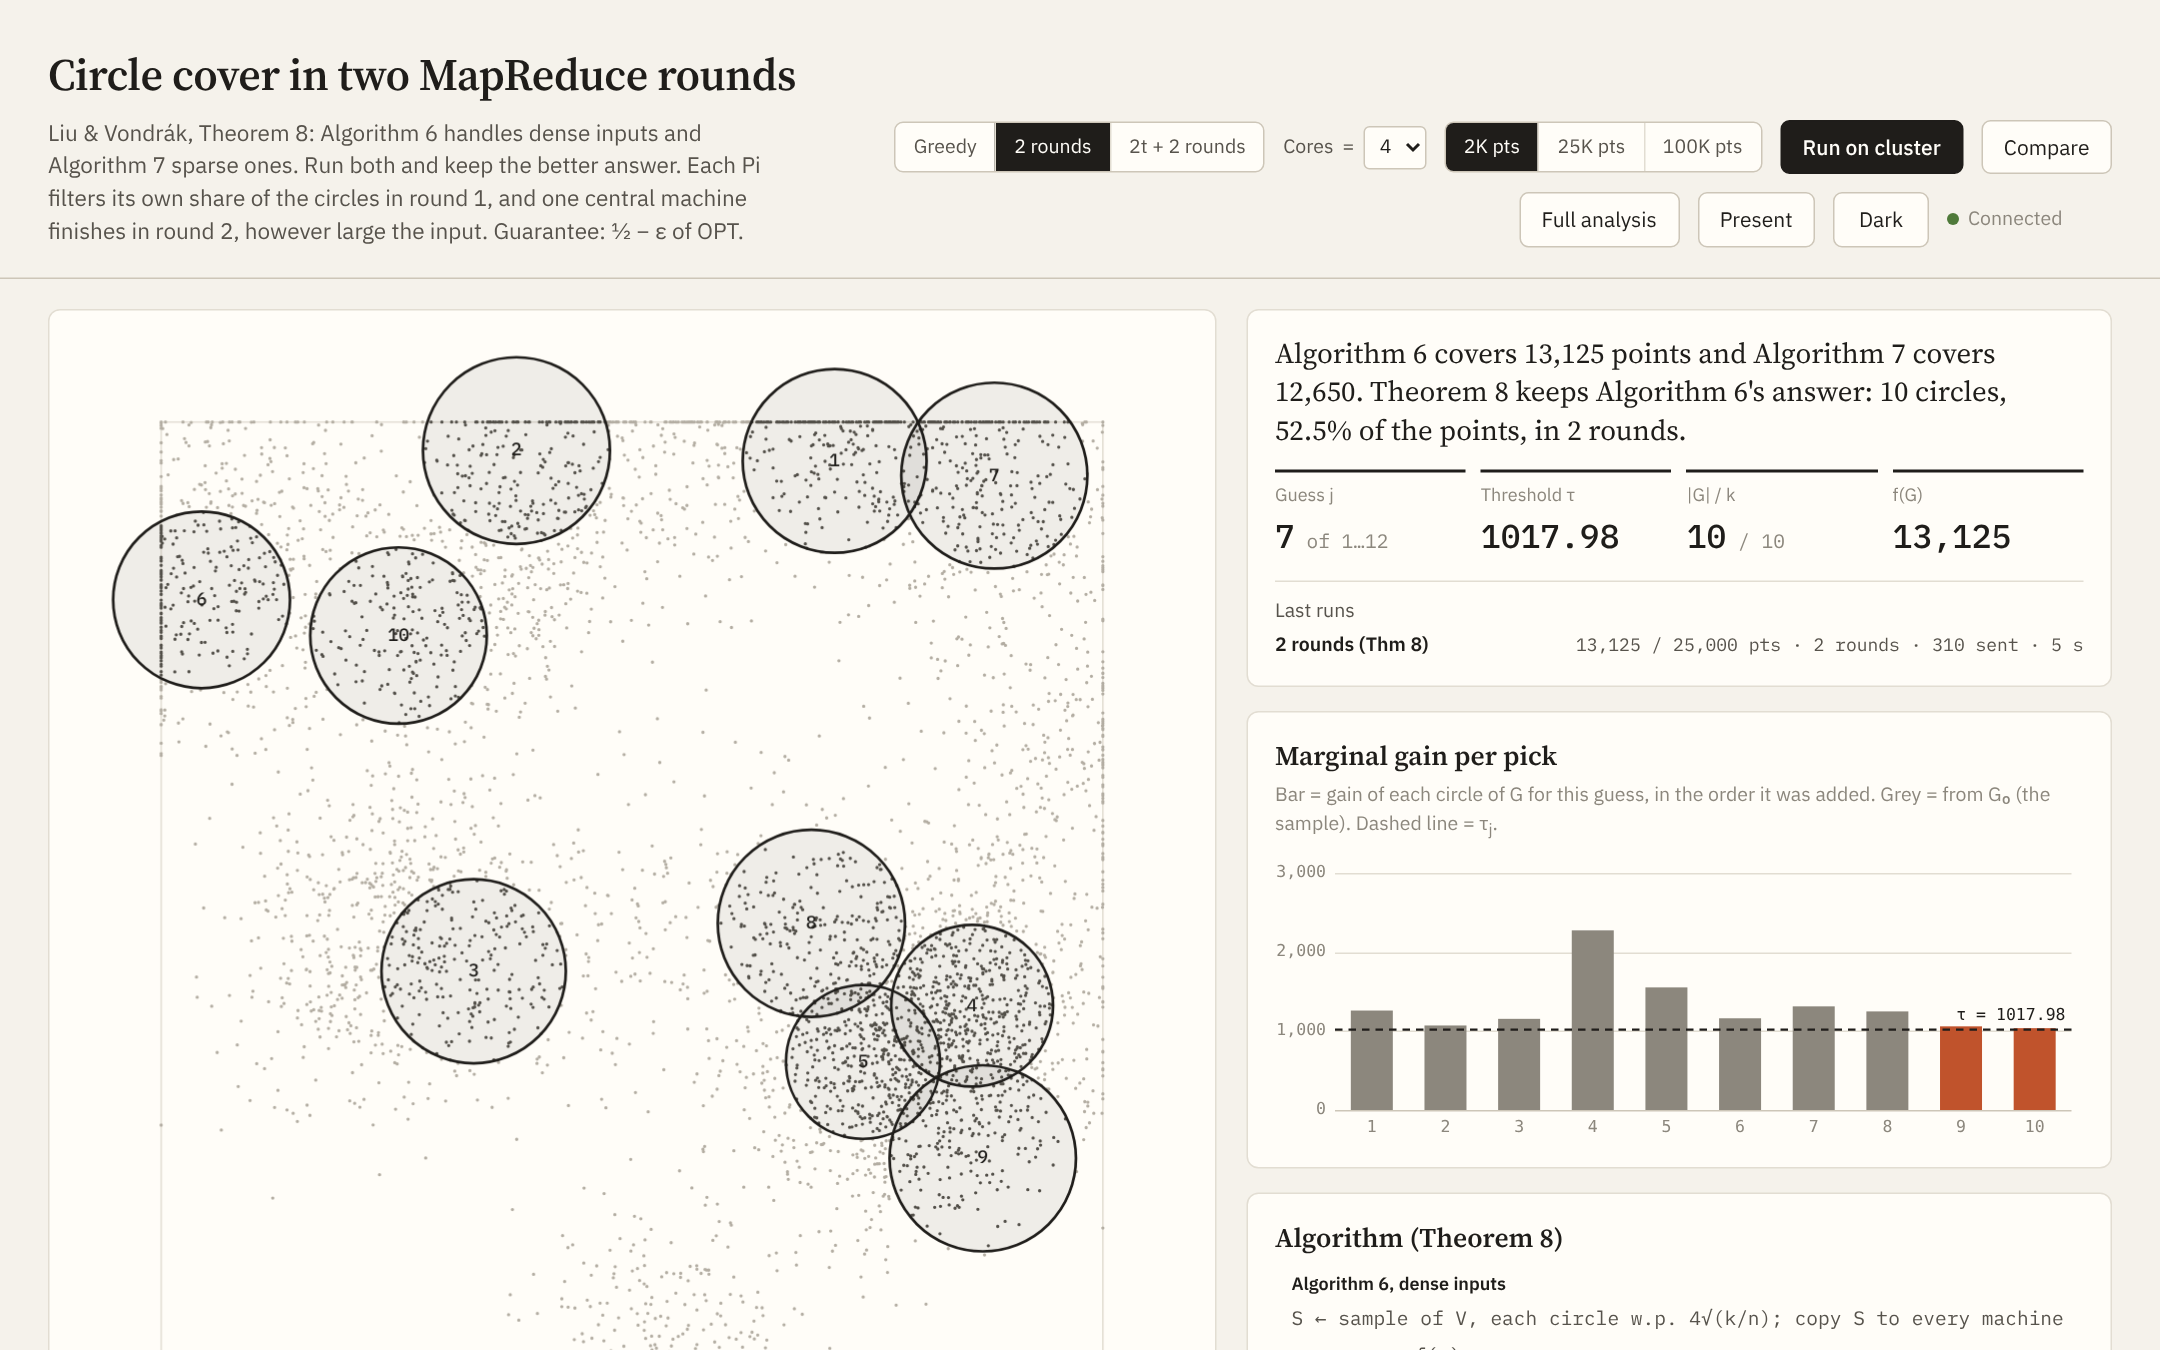
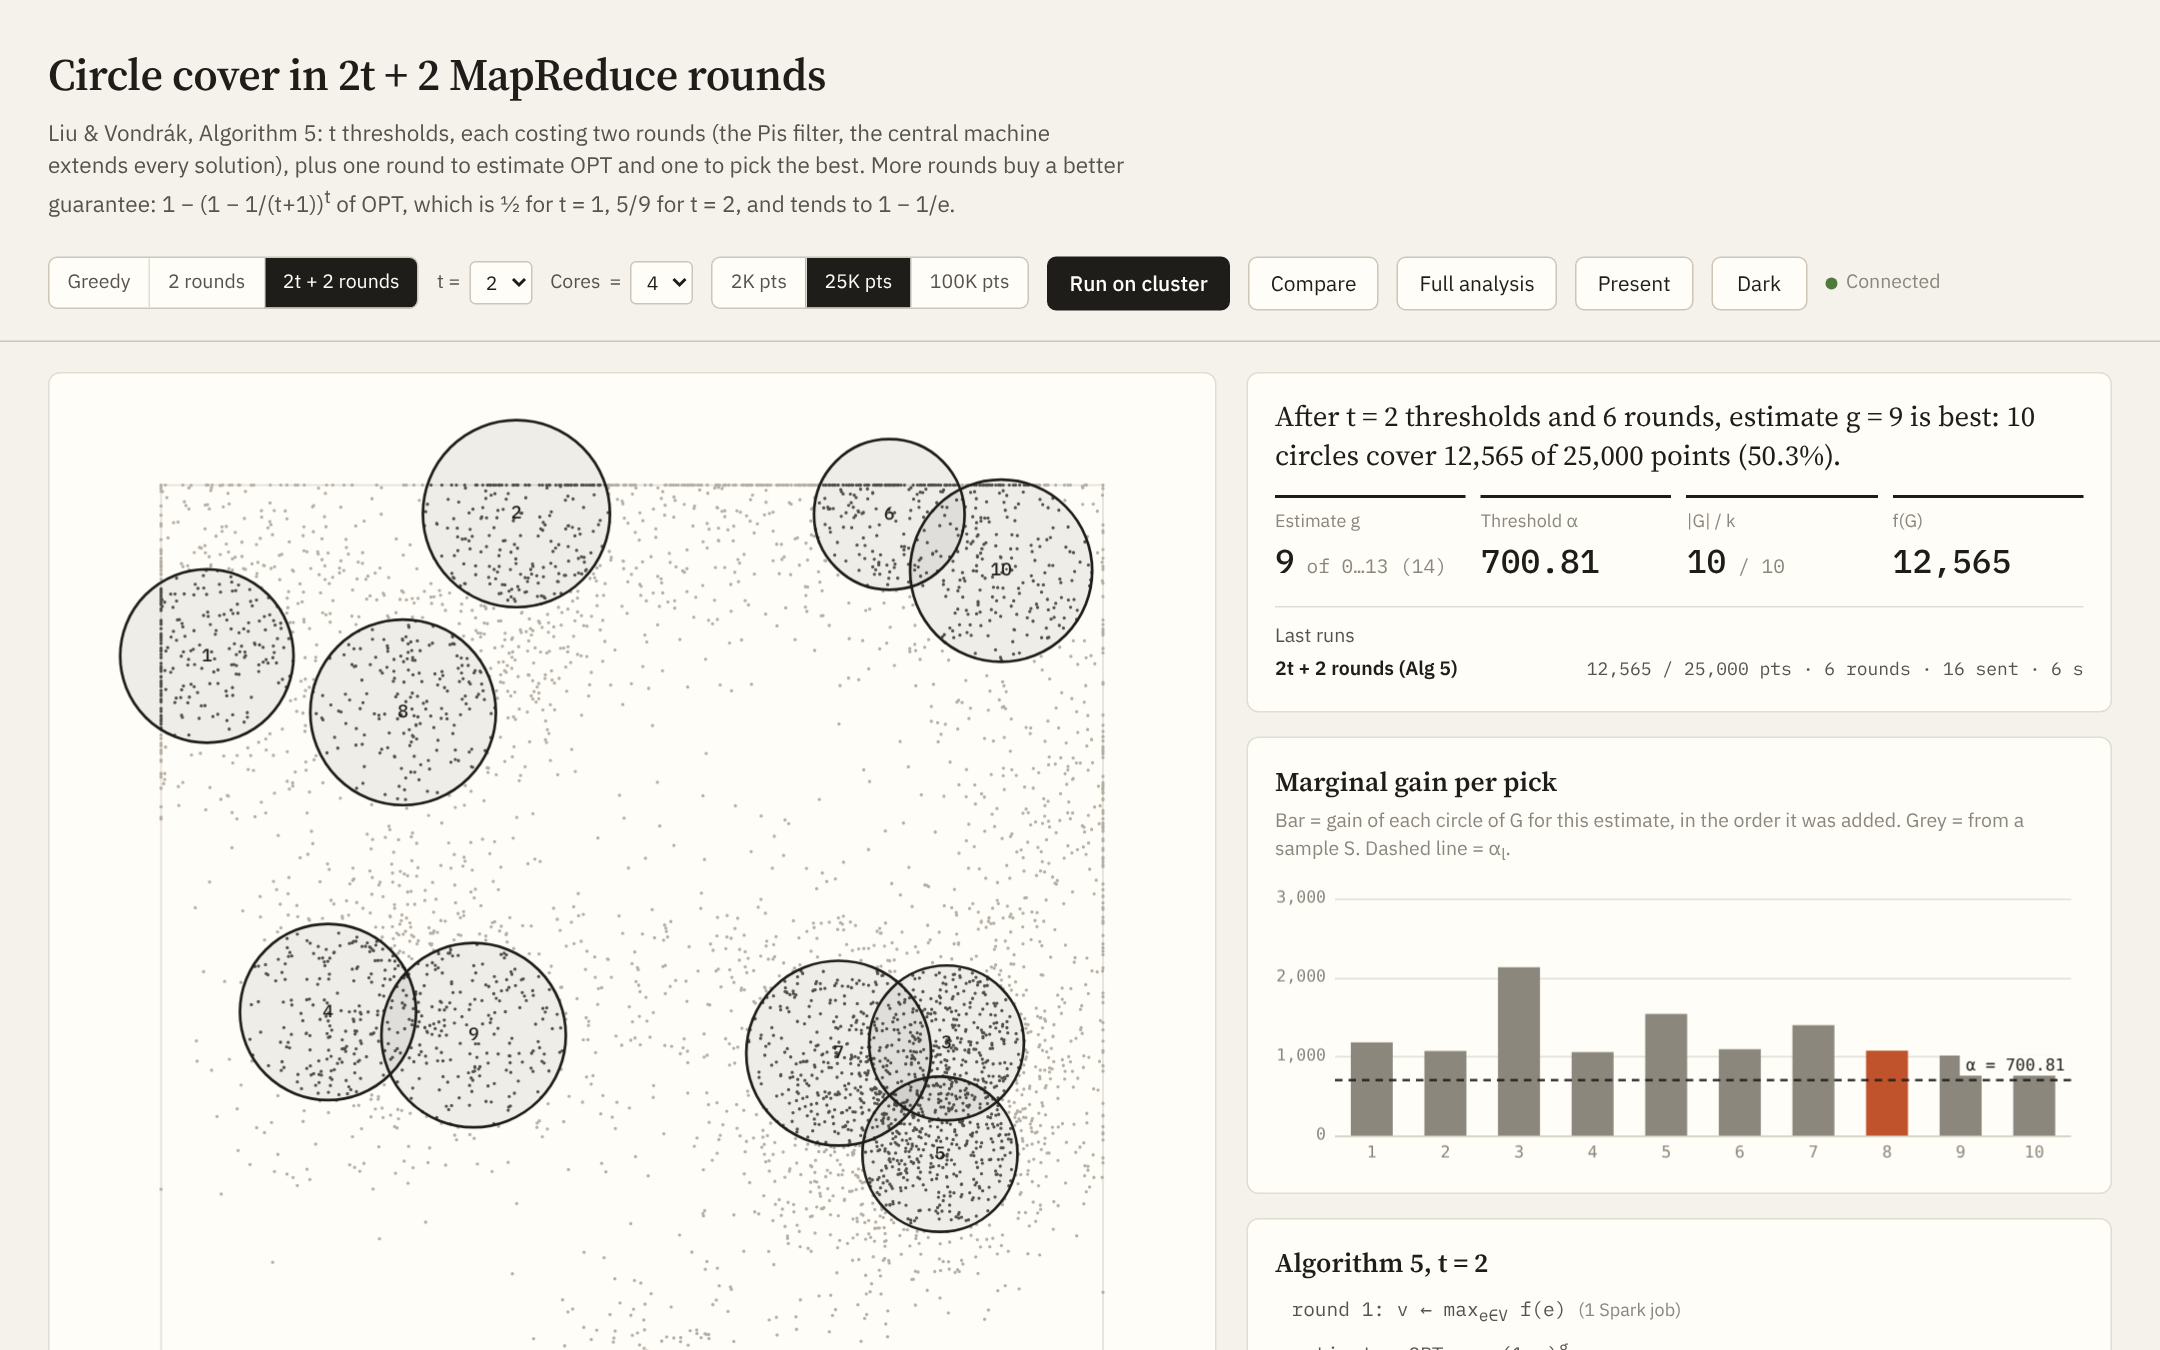
One action per line in every algorithm's pseudocode; size picker follows the shown run
- Greedy: if found / else split from their actions.
- Theorem 8: sampling and copying S on separate lines, the |G0| < k test
  separate from sending R_i, Alg 7's central round as loop + action.
- Algorithm 5: the central round as loop + action.
- The size picker now shows the input of the run on screen.
- README dashboard screenshot refreshed.

Claude-Session: https://claude.ai/code/session_016FUvjFZkUc82Ytw8NUo6Ps

diff --git a/ui/script.js b/ui/script.js
@@ -54,8 +54,10 @@ const ALGORITHMS = {
             { id: 5, text: 'S ← ∅', indent: 1 },
             { id: 6, text: 'while |S| &lt; k:', indent: 1 },
             { id: 7, text: 'find any c with Δf(c | S) ≥ τ', indent: 2, note: '1 Spark job' },
-            { id: 8, text: 'if found: S ← S ∪ {c}', indent: 2 },
-            { id: 9, text: 'else: stop this guess', indent: 2 },
+            { id: 8, text: 'if found:', indent: 2 },
+            { id: '8b', text: 'S ← S ∪ {c}', indent: 3 },
+            { id: 9, text: 'else:', indent: 2 },
+            { id: '9b', text: 'stop this guess', indent: 3 },
             { id: 10, text: 'keep S if f(S) is the best so far', indent: 1 },
             { id: 11, text: 'return best S' }
         ]
@@ -68,17 +70,20 @@ const ALGORITHMS = {
             'and one central machine finishes in round 2, however large the input. Guarantee: ½ − ε of OPT.',
         code: [
             { id: 'h6', head: 'Algorithm 6, dense inputs' },
-            { id: 'a1', text: 'S ← sample of V, each circle w.p. 4√(k/n); copy S to every machine' },
+            { id: 'a1', text: 'S ← sample of V, each circle w.p. 4√(k/n)' },
+            { id: 'a1b', text: 'copy S to every machine' },
             { id: 'a2', text: 'v ← max<sub>e∈S</sub> f(e)' },
             { id: 'a3', text: 'round 1, on every machine i, for every guess j:', note: '1 Spark job' },
             { id: 'a4', text: 'τ<sub>j</sub> ← v(1+ε)<sup>j</sup> / k', indent: 1 },
             { id: 'a5', text: 'G₀ ← ThresholdGreedy(S, ∅, τ<sub>j</sub>)', indent: 1 },
-            { id: 'a6', text: 'if |G₀| &lt; k: send R<sub>i</sub> ← ThresholdFilter(V<sub>i</sub>, G₀, τ<sub>j</sub>)', indent: 1 },
+            { id: 'a6', text: 'if |G₀| &lt; k:', indent: 1 },
+            { id: 'a6b', text: 'send R<sub>i</sub> ← ThresholdFilter(V<sub>i</sub>, G₀, τ<sub>j</sub>)', indent: 2 },
             { id: 'a7', text: 'round 2, on the central machine, for every j:' },
             { id: 'a8', text: 'G ← ThresholdGreedy(∪<sub>i</sub> R<sub>i</sub>, G₀, τ<sub>j</sub>)', indent: 1 },
             { id: 'h7', head: 'Algorithm 7, sparse inputs' },
             { id: 'b1', text: 'round 1: every machine sends its 2k circles with the largest f(e)', note: '1 Spark job' },
-            { id: 'b2', text: 'round 2, central: G<sub>j</sub> ← ThresholdGreedy(S, ∅, τ<sub>j</sub>) for every j' },
+            { id: 'b2', text: 'round 2, on the central machine, for every j:' },
+            { id: 'b2b', text: 'G<sub>j</sub> ← ThresholdGreedy(S, ∅, τ<sub>j</sub>)', indent: 1 },
             { id: 'h8', head: 'Theorem 8' },
             { id: 'c1', text: 'return the better of the two answers (2 rounds in total)' }
         ]
@@ -99,7 +104,8 @@ const ALGORITHMS = {
             { id: 'd4', text: 'α<sub>l</sub> ← (1 − 1/(t+1))<sup>l</sup> · OPT<sub>g</sub> / k', indent: 2 },
             { id: 'd5', text: 'G₀ ← ThresholdGreedy(S, G<sub>g</sub>, α<sub>l</sub>)', indent: 2 },
             { id: 'd5b', text: 'send R<sub>i</sub> ← ThresholdFilter(V<sub>i</sub>, G₀, α<sub>l</sub>)', indent: 2 },
-            { id: 'd6', text: 'round 2l + 1, central: G<sub>g</sub> ← ThresholdGreedy(∪<sub>i</sub> R<sub>i</sub>, G₀, α<sub>l</sub>)', indent: 1 },
+            { id: 'd6', text: 'round 2l + 1, on the central machine, for every g:', indent: 1 },
+            { id: 'd6b', text: 'G<sub>g</sub> ← ThresholdGreedy(∪<sub>i</sub> R<sub>i</sub>, G₀, α<sub>l</sub>)', indent: 2 },
             { id: 'd7', text: 'round 2t + 2: return the best G<sub>g</sub>' }
         ]
     }
@@ -107,7 +113,7 @@ const ALGORITHMS = {
 // Plain-text subscript digits, for text set with textContent (α_1 -> α₁)
 const subscript = n => String(n).replace(/\d/g, d => '₀₁₂₃₄₅₆₇₈₉'[d]);
 const ALGO_LABEL = { alg6: 'Algorithm 6', alg7: 'Algorithm 7', alg5: 'Algorithm 5' };
-const FIRST_LINE = { greedy: [1], theorem8: ['a1'], alg5: ['d1', 'd1b'] };
+const FIRST_LINE = { greedy: [1], theorem8: ['a1', 'a1b'], alg5: ['d1', 'd1b'] };
 const LAST_LINE = { greedy: [11], theorem8: ['c1'], alg5: ['d7'] };
 // The MapReduce algorithms build one solution G per guess; greedy grows a single S.
 const isMapReduce = a => a !== 'greedy';
@@ -178,7 +184,7 @@ function reduce(s, e, index) {
                     `circles is copied to every machine.`;
                 break;
             }
-            s.lines = ['a1', 'a2'];
+            s.lines = ['a1', 'a1b', 'a2'];
             s.now = `Algorithm 6: S is a random sample of ${fmt(e.circles.length)} of the ${fmt(e.n)} circles, ` +
                 `and every machine gets a copy. The best single circle in S covers v = ${fmt(e.v)} points.`;
             break;
@@ -223,7 +229,7 @@ function reduce(s, e, index) {
                 s.now = `Round ${s.rounds}: ${spread}. ${fmt(passed)} clear τ = ${fmtTau(e.threshold)}; ` +
                     `the first one found is taken.`;
             } else {
-                s.lines = [9];
+                s.lines = [9, '9b'];
                 s.now = `Round ${s.rounds}: ${spread}. None clear τ = ${fmtTau(e.threshold)}, ` +
                     `so guess j = ${s.j} stops at |S| = ${s.circles.length}.`;
             }
@@ -253,7 +259,7 @@ function reduce(s, e, index) {
                              coverage: e.coverage, gains: s.gains });
             if (e.algo === 'alg5') {
                 const fromSample = e.g0 - e.kept, fromPis = e.circles.length - e.g0;
-                s.lines = ['d6'];
+                s.lines = ['d6', 'd6b'];
                 s.now = `Round ${2 * e.l + 1}, estimate g = ${e.j} (α = ${fmtTau(e.threshold)}): ` +
                     `${e.kept} circle${e.kept === 1 ? '' : 's'} kept from earlier thresholds, ` +
                     `${fromSample} added from the sample and ${fromPis} from what the Pis sent. ` +
@@ -270,7 +276,7 @@ function reduce(s, e, index) {
                       `Continuing with the ${fmt(e.candidates)} circles sent for this guess gives ` +
                       `|G| = ${e.circles.length}, f(G) = ${fmt(e.coverage)}.`;
             } else {
-                s.lines = ['b2'];
+                s.lines = ['b2', 'b2b'];
                 s.now = `${head}: ThresholdGreedy over the ${fmt(e.candidates)} circles sent in round 1 ` +
                     `picks ${e.circles.length}. f(G) = ${fmt(e.coverage)}.`;
             }
@@ -287,7 +293,7 @@ function reduce(s, e, index) {
             s.coverage = e.coverage;
             const g = s.guesses[s.guesses.length - 1];
             if (g) { g.picks = s.circles.length; g.coverage = e.coverage; }
-            s.lines = [8];
+            s.lines = [8, '8b'];
             s.now = `Pick ${e.step}: gain Δf = ${fmt(e.gain)} ≥ τ, so the circle joins S. f(S) = ${fmt(e.coverage)}.`;
             break;
         }
@@ -381,7 +387,7 @@ const TWO_ROUND_TEXT = {
         };
     },
     alg5_central: e => ({
-        lines: ['d6'],
+        lines: ['d6', 'd6b'],
         now: `Round ${e.round}: only the central machine (${e.partitions[0].host}) works, extending every ` +
             `estimate's solution with the ${fmt(e.partitions[0].held)} circles it received:`
     }),
@@ -393,7 +399,7 @@ const TWO_ROUND_TEXT = {
         const held = e.partitions.reduce((a, p) => a + p.held, 0);
         const sent = e.sent_circles ? e.sent_circles.length : 0;
         return {
-            lines: ['a3', 'a4', 'a5', 'a6'],
+            lines: ['a3', 'a4', 'a5', 'a6', 'a6b'],
             now: `Algorithm 6, round 1: each Pi takes its share of the ${fmt(held)} circles and, for all ` +
                 `${e.guesses} guesses, keeps those that still clear τⱼ after G₀. ` +
                 `${fmt(sent)} distinct circles go to the central machine.`
@@ -415,7 +421,7 @@ const TWO_ROUND_TEXT = {
         };
     },
     alg7_r2: e => ({
-        lines: ['b2'],
+        lines: ['b2', 'b2b'],
         now: `Algorithm 7, round 2: the central machine (${e.partitions[0].host}) runs ThresholdGreedy ` +
             `over the ${fmt(e.partitions[0].held)} circles it received, once per guess:`
     })
@@ -537,6 +543,10 @@ function renderCode(algorithm) {
     if (state.config) {
         document.querySelector(`input[name="algorithm"][value="${algorithm}"]`).checked = true;
         if (state.t) $('tSelect').value = String(state.t);
+        // and the size picker on the input being shown (dataset is "size/seed/std")
+        const size = (state.config.dataset || '').split('/')[0];
+        const sizeInput = document.querySelector(`input[name="jobSize"][value="${size}"]`);
+        if (sizeInput) sizeInput.checked = true;
         renderTPicker();
     }
     const t = state.config ? state.t : selectedT();

diff --git a/ui/style.css b/ui/style.css
@@ -218,6 +218,7 @@ figcaption {
 .code li { padding: 3px 8px; border-left: 3px solid transparent; color: var(--ink-2); border-radius: 0 3px 3px 0; }
 .code li.i1 { padding-left: 26px; }
 .code li.i2 { padding-left: 44px; }
+.code li.i3 { padding-left: 62px; }
 .code li em { color: var(--ink-3); font-style: normal; font-family: var(--sans); font-size: 12px; }
 .code li.head { font-family: var(--sans); font-weight: 600; color: var(--ink); font-size: 12px; padding-top: 8px; }
 .code li.head:first-child { padding-top: 3px; }

diff --git a/README.md b/README.md
@@ -48,7 +48,7 @@ All of them build on Algorithm 1 (ThresholdGreedy), Algorithm 2 (ThresholdFilter
 
 ## The dashboard
 
-![Theorem 8 on the medium dataset: the chosen circles, the marginal gain of each pick and the pseudocode](docs/dashboard.png)
+![Algorithm 5 on the medium dataset: the chosen circles, the marginal gain of each pick and the pseudocode](docs/dashboard.png)
 
 - **Step through a run.** Every Spark round is an event on a timeline. Play, pause, step, scrub, or jump to a guess or round. The pseudocode highlights the line being executed.
 - **See the work on the cluster.** Each round is drawn per Pi and per partition: how many circles each machine checked, what it sent to the driver, and which Pi found each chosen circle.
